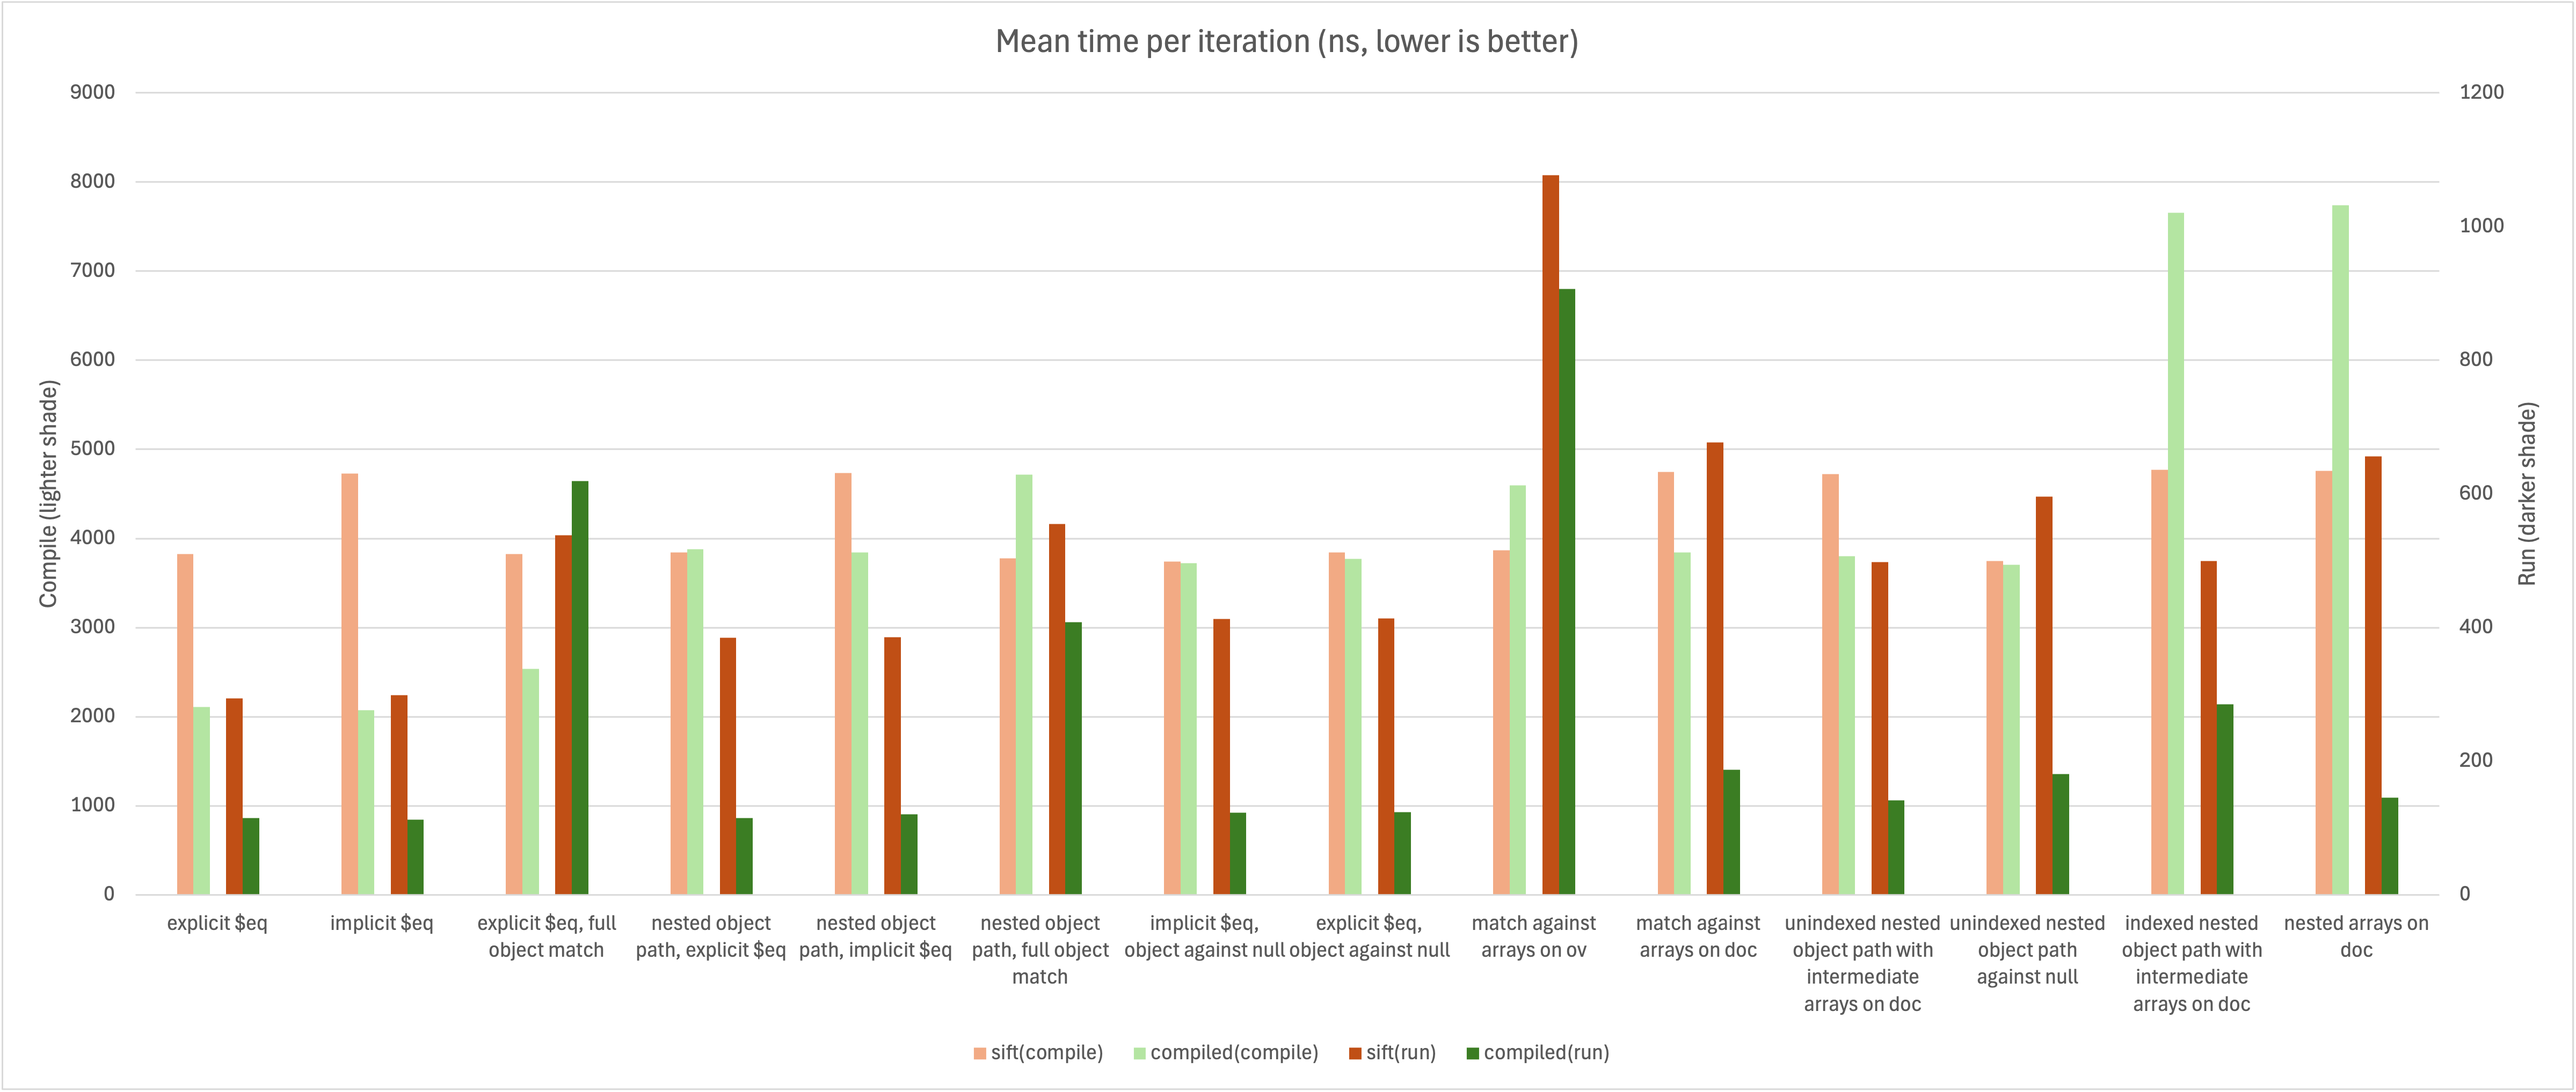
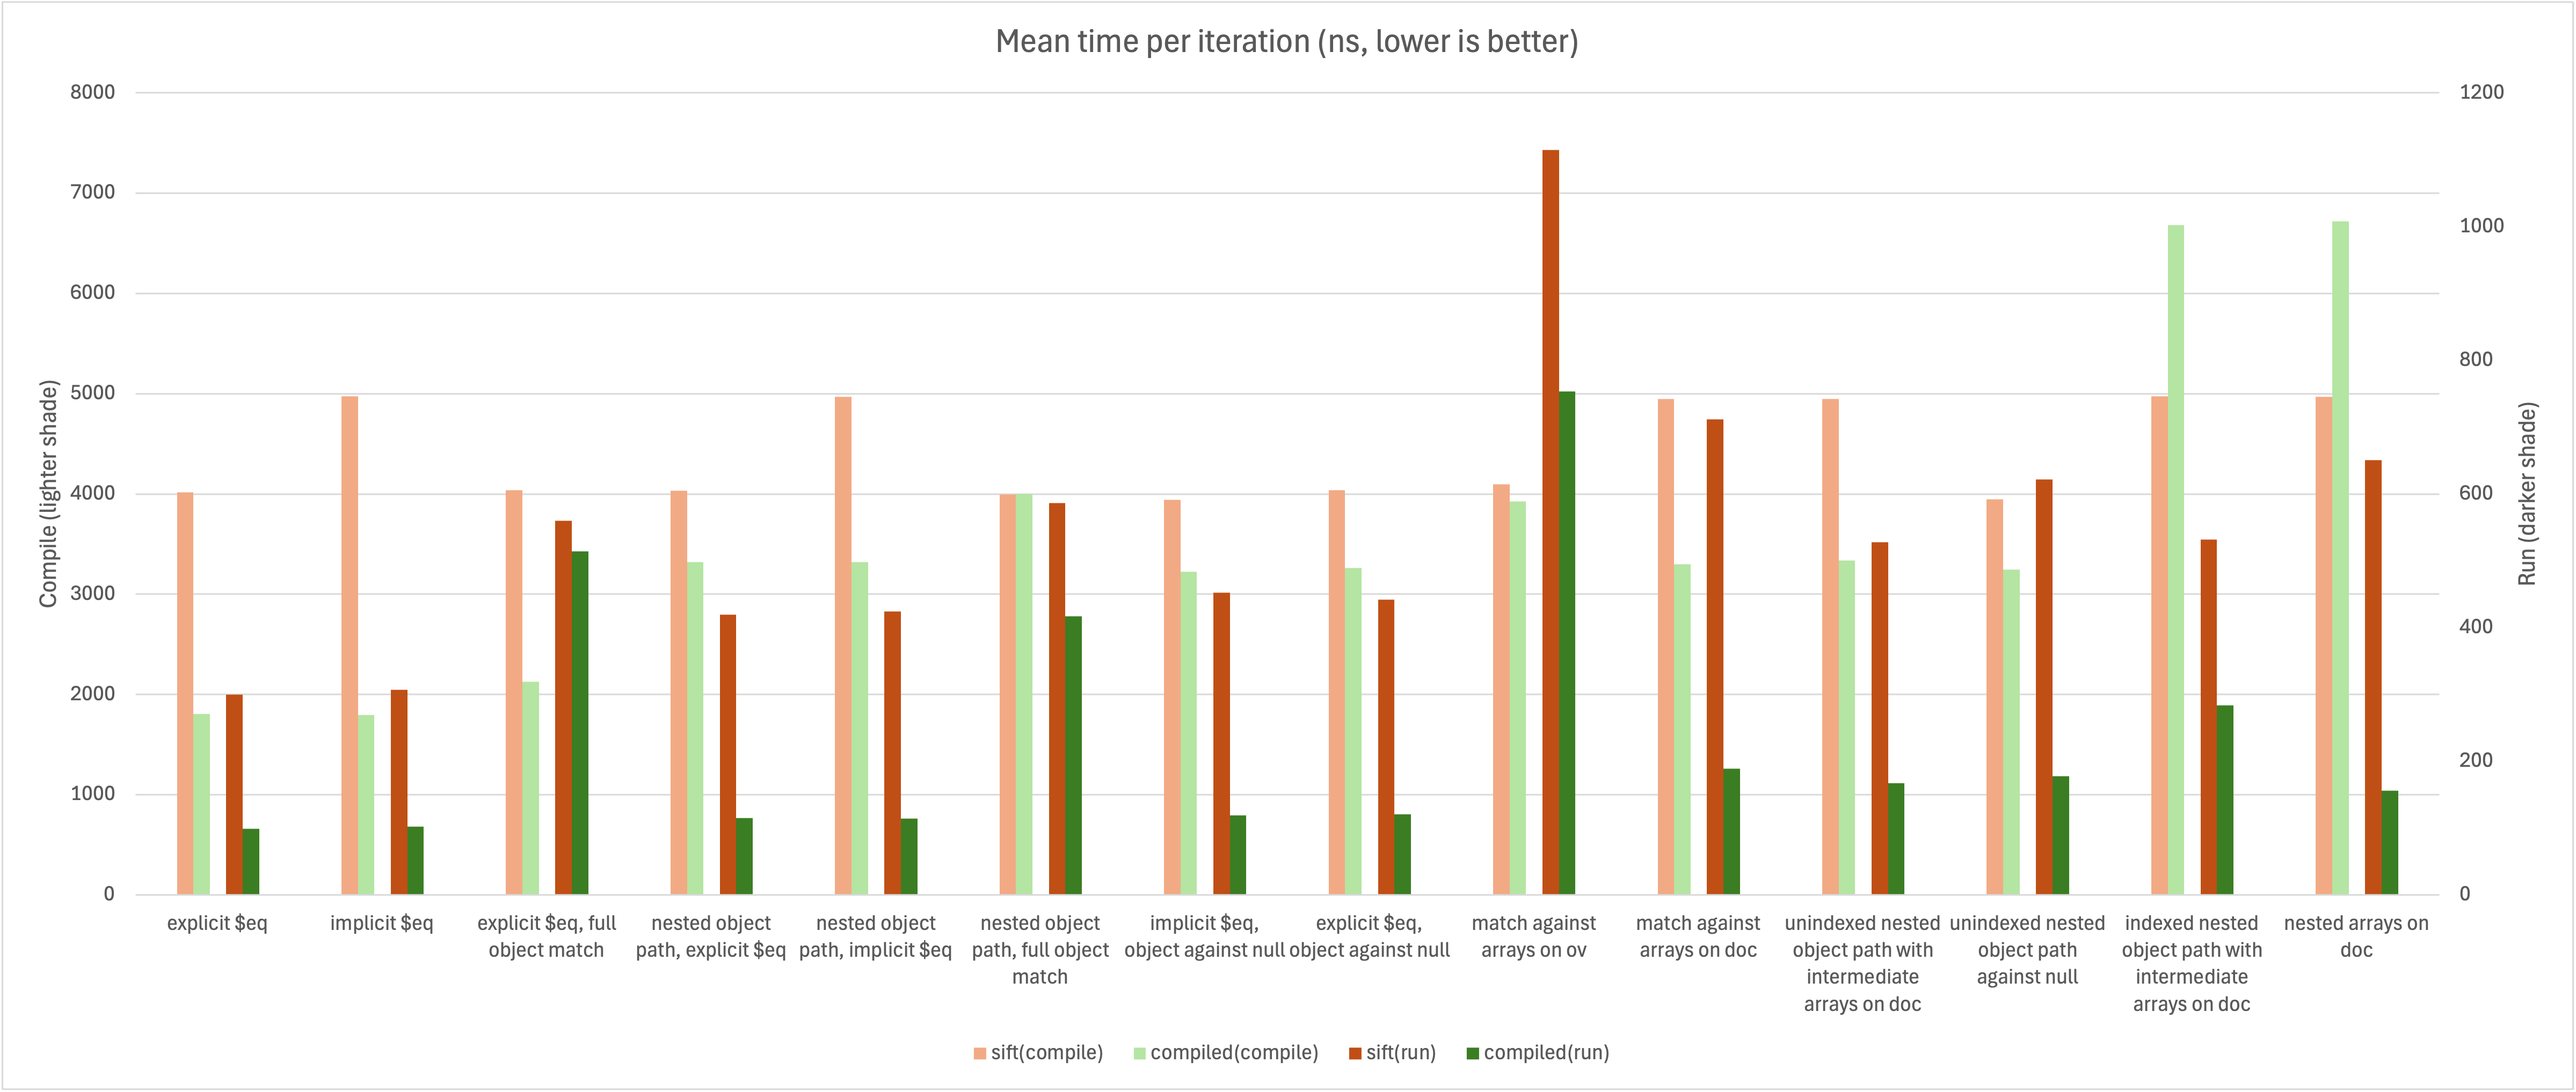
feat: optimize redundant generation when tail is empty
10-12% improvement!

diff --git a/src/compiler.ts b/src/compiler.ts
@@ -94,13 +94,19 @@ export function compile(query: Query, options: CompilerOptions = {}): Filter {
 
 	str += `return ${kRet}`;
 
-	const fn = new Function(kDoc, str) as Filter;
-
-	if (options.debug) {
-		console.log(fn.toString());
+	try {
+		const fn = new Function(kDoc, str) as Filter;
+		if (options.debug) {
+			console.log(fn.toString());
+		}
+		return fn;
+	} catch (error) {
+		console.error(error);
+		if (options.debug) {
+			console.error(str);
+		}
+		throw error;
 	}
-
-	return fn;
 }
 
 class SymbolCounter {
@@ -133,9 +139,8 @@ function genEq(
 	const results = [];
 
 	const safePath = getSafePath([kDoc, ...pathParts]);
-	const kPathCmp = sc.inc();
-	results.push(kPathCmp);
-	str += `const ${kPathCmp} = ` + genCompareOv(safePath, ovs);
+	results.push(kRet);
+	str += `let ${kRet} = ` + genCompareOv(safePath, ovs);
 
 	for (let i = 0; i < pathParts.length; i++) {
 		const head = pathParts.slice(0, i + 1);
@@ -151,18 +156,20 @@ function genEq(
 
 		const kSubPathCmp = sc.inc();
 		subArrResults.push(kSubPathCmp);
-		str += `const ${kSubPathCmp} = ` + genCompareOv(safeTailPath, ovs);
+		str += `let ${kSubPathCmp} = ` + genCompareOv(safeTailPath, ovs);
 
-		const kSubArrRet = sc.inc();
-		subArrResults.push(kSubArrRet);
-		str += genEq(kSubArrRet, ovs, tail, options);
+		if (tail.length) {
+			const kSubArrRet = sc.inc();
+			subArrResults.push(kSubArrRet);
+			str += genEq(kSubArrRet, ovs, tail, options);
+		}
 
 		const kSubArrResult = sc.inc();
 		str += `let ${kSubArrResult} = ${subArrResults.join(" || ")}; `;
 		str += `return ${kSubArrResult}; }); `;
 	}
 
-	str += `let ${kRet} = ${mode === "nor" ? "!" : ""}(${results.join(" || ")}); `;
+	str += `${kRet} = ${mode === "nor" ? "!" : ""}(${results.join(" || ")}); `;
 
 	if (options.debug) {
 		str += `\n/* END kRet:${kRet} pathParts:[${pathParts.join(",")}] */\n`;
